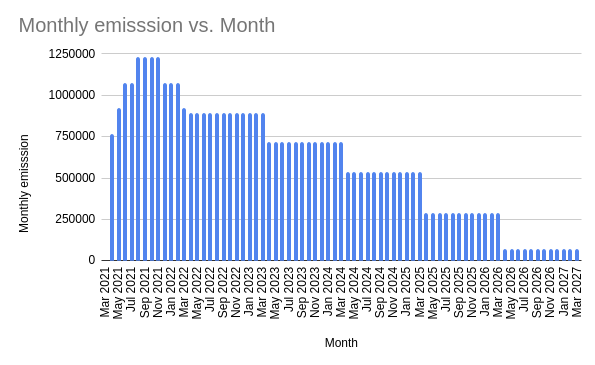
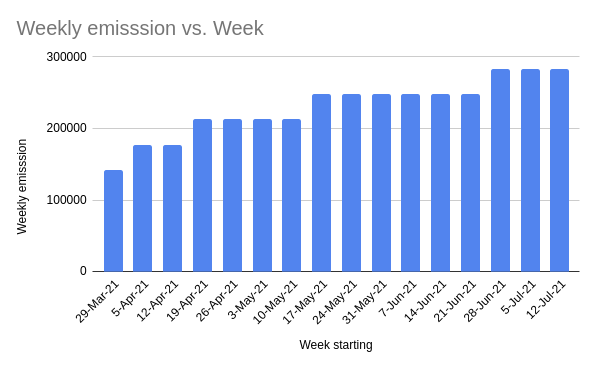
Update MCCP-4 figures

diff --git a/MCCP/mccp-4.md b/MCCP/mccp-4.md
@@ -1,7 +1,7 @@
 ---
 mccp: 4
 title: Optimise MTA emission to maximise circular effects
-status: WIP
+status: Proposed
 author: Alex Scott <@alsco77>, Onur Solmaz <@osolmaz>
 discussions-to: https://forum.mstable.org/
 created: 2021-03-16
@@ -27,17 +27,15 @@ The MCCP proposes that mStable:
 
 **b)** change the rewards contracts so that X% of MTA is unlocked immediately and Y% is vested over Z months (like the current imUSD vault), with a boost for being an MTA staker, thus incentivising LPs over a longer time period
 
-**c)** stick to the outlined emission schedule and ruleset defined here in order to calculate weekly pool distributions
-
-This MCCP interacts positively with [MIP-8](../MIPS/mip-8) and has the power to set the tokenomics on a different course: increasing mStable TVL, increasing fees to mAsset SAVE, increasing revenue to buy & make, reducing sell pressure for MTA and causing people to be MTA bulls due to the lockup and the rewards gained from being a staker.
-
-![curve](/assets/MCCP-4/curve.png)
+**c)** stick to the outlined emission schedule (over the next 16 weeks) and ruleset defined here in order to calculate weekly pool distributions
 
 ## Motivation
 
 <!--The motivation is critical for MCCPs that want to update variables within mStable. It should clearly explain why the existing variable is not incentive aligned. MCCP submissions without sufficient motivation may be rejected outright.-->
 
 The current incentives structure is inefficient and does not promote long term project alignment. LP's are rewarded for providing mAsset liquidity on to third party platforms, which, while providing some utility for mAssets, does not induce circular effects in mStable, and benefits the third parties moreso. In addition, LP's are only incentivised over a very short time period as the rewards unlock immediately, thus incentivising 'flash' liquidity provision and short term outlook on MTA. Thirdly, the calculation of quantities and determination of which sources should receive MTA emission is inefficient and could be optimised with a ruleset.
+
+This MCCP interacts positively with [MIP-8](../MIPS/mip-8) and has the power to set the tokenomics on a different course: increasing mStable TVL, increasing fees to mAsset SAVE, increasing revenue to buy & make, reducing sell pressure for MTA and causing people to be MTA bulls due to the lockup and the rewards gained from being a staker.
 
 Goals of MCCP-4:
 
@@ -55,52 +53,101 @@ It is worth reflecting upon emissions from comparative projects - see fig below 
 
 ## Specification
 
-### Top line emission
+### 16 week emission
 
-There are ~43m MTA remaining in the rewards pool for distribution. The emission curve proposed here would see this being emitted over 6 years, finishing in April 2027. It is assumed that MTA's value would increase over time as reward units drop. It is proposed that there be an alternative source following completion, for example a tail emission.
+There are ~43m MTA remaining in the rewards pool for distribution. The idea is that this emission would be front loaded and last for ~5-6 years, finishing in April 2027. It is assumed that MTA's value would increase over time as reward units drop. The monthly emission would ramp up over 3 months, from the current emission up to the peak monthly emission of 1.228m MTA per month. It would then ramp down until finishing in 2027.
 
-The monthly emission would ramp up over 3 months, from the current emission up to the peak monthly emission of 1.228m MTA per month. It would then ramp down until finishing in 2027.
+Proposal: Put this emission into effect for the following 16 weeks, in line with the top line emission schedule, to stimulate growth of mAssets and Feeder Pools, as shown below:
 
 ![bars](/assets/MCCP-4/bars.png)
 
+_This equates to an average yearly emission of (52/16)\*3685714 = 12m_
+
 ### Ruleset for pool distribution
 
-The ruleset below outlines the method by which pools will be chosen and which incentives they will receive.
+We define a simple heuristic which will be used to allocate emissions to feeder pools. The allocations for each imAsset vaults and feeder pools are derived from a total MTA emission amount. We denote the rewards received by the imAsset vaults and related feeder pools with `total_emission`. A fixed percentage of `total_emission` denoted by `feeder_emission_pct` goes to the feeder pools, and the rest is rewarded to the imAsset vaults.
 
-The following pools are proposed to be eligible for receiving rewards, in addition to MTA staking:
+```python
+feeder_emission = total_emission * feeder_emission_pct
+vault_emission = total_emission * (1 - feeder_emission_pct)
+```
 
-- imAsset vaults
-- Feeder Pools
+The emission internally between pools are distributed according to their performance in the previous week. However, before we look into performance, a fixed percentage `base_emission_pct` of emission to feeder pools is distributed equally to the mAsset's feeder pools. In other words, each feeder pools receive a base reward of
 
-The amount for each pool will be calculated as follows:
+```python
+feeder_base_emission = feeder_emission * base_feeder_emission_pct / n # MTA
+vault_base_emission = vault_emission * base_vault_emission_pct / m # MTA
+```
 
-- 30% of the weekly emission will be distributed evenly across all whitelisted pools
-- 70% will be distributed based on the optimisation formula described in Appendix 1 below
+where `n` is the number of feeder pools and `m` is number of mAsset vaults.
 
-Example week 1 numbers, based on emission above of 767,857 MTA per month (177334 per week).
-Assuming 2 imAsset vaults, 4 fPools, \$2.3 MTA price, 20% Daily LUR on each pool and ~40k going to MTA sources.
+On top of base rewards, each pool receives bonus rewards based on their performance from the previous week. We derive a simple performance metric from the volume and liquidity of the pool, according to
 
-<!-- TODO: Put accurate numbers in based on formula: maybe need to assume pool sizes too -->
-<!-- TODO: Example addition of new mAsset & fPool -->
+```python
+# For each feeder pool i
+bonus_feeder_factor[i] = volume[i] / liquidity[i]**(1/4)
+bonus_vault_factor[i] = volume[i] / liquidity[i]**(1/4)
+```
 
-| Pool allocations   | Current | Proposed (Week 1) |
-| ------------------ | ------- | ----------------- |
-| imBTC Vault        | 0       | 22889             |
-| mBTC/ETH Sushiswap | 15000   | 0                 |
-| imUSD Vault        | 12000   | 22889             |
-| mUSD Curve         | 13750   | 0                 |
-| mUSD/WETH Balancer | 23750   | 0                 |
-| fPool 1            | 0       | 22889             |
-| fPool 2            | 0       | 22889             |
-| fPool 3            | 0       | 22889             |
-| fPool 4            | 0       | 22889             |
-| **TOT mAssets**    | 64500   | 137334            |
-| MTA/WETH Uniswap   | 28750   | ---               |
-| Staking            | 40000   | ---               |
-| **TOT MTA**        | 68750   | 40000             |
-| **TOT**            | 133250  | 177334            |
+where `volume` is the value of the sum of all trades that were executed by the pool in the past week, and `liquidity` is the value of the time weighted average of total liquidity in the feeder pool in the past week.
 
-_Projected TVL: >164m giving each pool >=10% APY from only MTA rewards_
+Pools receive rest of the rewards proportional to their bonus factors:
+
+```python
+bonus_feeder_emission[i] = feeder_emission * (1 - base_feeder_emission_pct) \
+        * bonus_feeder_factor[i] / sum(bonus_feeder_factor)
+bonus_vault_emission[i] = vault_emission * (1 - base_vault_emission_pct) \
+        * bonus_vault_factor[i] / sum(bonus_vault_factor)
+```
+
+Finally, the total emission a feeder pool receives is computed as the sum of the base emission and bonus emission
+
+```python
+total_feeder_emission[i] = feeder_base_emission + bonus_feeder_emission[i]
+total_vault_emission[i] = vault_base_emission + bonus_vault_emission[i]
+```
+
+It is proposed that:
+
+- `feeder_emission_pct` = 0.8
+- `base_feeder_emission_pct` = 0.2
+- `base_vault_emission_pct` = 0.5
+
+Example week 1 numbers, based on emission above of 141758 per week.
+Assuming 2 imAsset vaults, 4 fPools, 20% Daily LUR on each pool and ~40k going to MTA sources.
+
+Example week 14 numbers, based on emission above of 283516 per week.
+Assuming 3 imAsset vaults, 8 fPools, 20% Daily LUR on each pool and ~40k going to MTA sources.
+
+| Pool allocations   | Current | Proposed (Week 1) | Proposed (Week 14) |
+| ------------------ | ------- | ----------------- | ------------------ |
+| mBTC/ETH Sushiswap | 15000   | 0                 | 0                  |
+| mUSD/WETH Balancer | 23750   | 0                 | 0                  |
+| mUSD Curve         | 13750   | 0                 | 0                  |
+| imBTC Vault        | 0       | 10175.8           | 16234.4            |
+| imUSD Vault        | 12000   | 10175.8           | 16234.4            |
+| imXXX Vault        | 12000   | 0                 | 16234.4            |
+| fPool 1            | 0       | 20351.6           | 24351.6            |
+| fPool 2            | 0       | 20351.6           | 24351.6            |
+| fPool 3            | 0       | 20351.6           | 24351.6            |
+| fPool 4            | 0       | 20351.6           | 24351.6            |
+| fPool 5            | 0       | 0                 | 24351.6            |
+| fPool 6            | 0       | 0                 | 24351.6            |
+| fPool 7            | 0       | 0                 | 24351.6            |
+| fPool 8            | 0       | 0                 | 24351.6            |
+| **TOT mAssets**    | 64500   | 101758            | 243516             |
+| MTA/WETH Uniswap   | 28750   | ---               | ---                |
+| Staking            | 40000   | ---               | ---                |
+| **TOT MTA**        | 68750   | 40000             | 40000              |
+| **TOT**            | 133250  | 141758            | 283516             |
+
+Assuming \$2.3 MTA:  
+_Projected TVL Week 1: >121m giving each pool >=10% APY from only MTA rewards_
+_Projected TVL Week 14: >291m giving each pool >=10% APY from only MTA rewards_
+
+Assuming \$5 MTA:  
+_Projected TVL Week 1: >263m giving each pool >=10% APY from only MTA rewards_
+_Projected TVL Week 14: >632m giving each pool >=10% APY from only MTA rewards_
 
 ### Rewards contract specification
 
@@ -123,217 +170,6 @@ Variables:
 ### Buy & Make + Governance Fees
 
 As pools mature, it is proposed that the % of system revenue streamed to Buy and Make be increased via a following MCCP. Additionally, the governance fee in each Feeder Pool should be activated with the funds being directed towards the active Buy & Make pool.
-
-## Appendix 1: Emission Ruleset
-
-We want to have a mathematical way of reasoning when we set emissions to certain parts of the protocol. To this end, we set forth to create a comprehensive model with a level of detail sufficient to capture the token economics and market dynamics of each pool. The overarching purpose of the model is to maximize the TVL of the whole protocol by finding the optimal emission rates.
-
-As mStable is currently in the process of rapid restructuring and launching new pools, any comprehensive model we provide would risk being outdated short thereafter. Instead, we chose to use this MCCP to provide a simplified model as an example of the overall approach, which we intend to take in the longer term. We intend for such models to provide useful information, even after the governance of emission rates gets automated.
-
-To this end, we consider \\(n\\) undifferentiated liquidity pools whose asset prices are stable in the long term, e.g. stablecoins.
-
-**Assumptions**
-
-We assume that liquidity providers are drawn to pools with high annual percentage yield (APY), which is defined as in the following relation:
-
-```
-         yearly return on investment in USD
-APY = ----------------------------------------
-       initial value of the investment in USD
-```
-
-This value is computed from the combination of trading fees and liquidity mining rewards in each pool. Here, we assume that there is an equilibrium APY for each liquidity pool, tied to the corresponding market, below which the pool stops being attractive to liquidity providers. With this assumption, we imply that the APY does not fall below this minimum value.
-
-We also assume that liquidity pool volume
-
-- scales down linearly, when the pool is shrinking below current supply,
-- and stays constant, when the pool is growing above current supply.
-
-![supply1](/assets/MCCP-4/volume_supply1.svg)
-
-This is a conservative approach to estimating the demand in the market. It assumes that at a given point, the market is already saturated for a given liquidity pool, and increasing the liquidity will not necessarily increase volume. However, when the volume does increase at a future date, we take it into account by updating the values and rerunning the model.
-
-However, if the demand curve for a given asset pair were already known, we could set a target volume and use the bonding curve to compute the target size of the pool. Then we could use those values in the model, instead of current volume and supply.
-
-![supply2](/assets/MCCP-4/volume_supply2.svg)
-
-Our variables for the optimization problem are:
-
-- \\(e_i\\): weekly emission to pool \\(i\\)
-- \\(s_i\\): LP token supply (size) of pool \\(i\\)
-- \\(v_i\\): total volume of pool \\(i\\)
-
-The following are external parameters for the problem:
-
-- \\(V_i\\): current weekly volume demanded from pool \\(i\\)
-- \\(S_i\\): current LP token supply (size) of pool \\(i\\)
-- \\(A_i\\): minimum APY for pool \\(i\\) (i.e. the equilibrium APY which the pool has at maximum size)
-- \\(P\\): price of the governance token
-- \\(P_i\\): price of the LP token of pool \\(i\\) (1 in the case of USD based pools)
-- \\(e\_\max\\): maximum total weekly emission
-- \\(F\\): swap fee percentage, e.g. 0.0004
-
-**Objective function**
-
-We are trying to maximize the TVL, which is simply the sum of the values of the LP tokens of all pools:
-
-\\[
-\text{maximize }
-\sum_i P_is_i
-\\]
-
-**Constraints**
-
-**Constraint 1:** Total emission is less than or equal to maximum allowed emission.
-
-\\[
-\sum_i e_i \leq e_\max
-\\]
-
-**Constraint 2:** Pool APY should be greater than the designated minimum. The smaller the APY, the bigger the size of the pool.
-
-\\[
-52\left(\frac{FP_iv_i + Pe_i}{P_is_i}\right)
-\geq A_i
-\quad \text{for each } i
-\\]
-
-**Constraint 3:** Volume cannot be greater than current volume for each pool. This comes from the assumption we introduced above.
-
-\\[
-v_i \leq V_i
-\quad \text{for each } i
-\\]
-
-**Constraint 4:** Volume scales down linearly when a pool shrinks below its current size.
-
-\\[
-v_i \leq \frac{V_i}{S_i} s_i
-\quad \text{for each } i
-\\]
-
-Constraints 3 and 4 together create an envelope which enforce the assumption about volume's relationship with supply.
-
-**Implementation**
-
-This is a standard [linear optimization](https://en.wikipedia.org/wiki/Linear_programming) problem and we use a common solver from the SciPy package for the implementation. We assume that all LP tokens have the price 1, that is, \\(P_i =1\\) for all \\(i\\).
-
-```python
-import numpy as np
-from scipy.optimize import linprog
-
-# Governance token price
-P = 3.00
-
-# Minimum APY
-Ai = [0.10, 0.10, 0.10, 0.10, 0.10, 0.10]
-
-# Current pool sizes
-Si = [28e6, 10e6, 3e6, 3e6, 3e6, 3e6]
-
-# Current weekly demanded volume
-Vi = [15e6, 1e6, 0.5e6, 0.5e6, 0.5e6, 0.5e6]
-
-# Maximum total emission
-e_max = 150_000
-
-# Swap fee percentage
-F = 0.0004
-
-# Solution
-n = len(Ai) # Number of feeder pools
-assert len(Ai) == len(Vi)
-
-# Variables are:
-# [s_1, ..., s_n, e_1, ..., e_n, v_1, ..., v_n]
-c_vec = [1. for i in range(n)] \
-    + [0. for i in range(2*n)]
-
-c_vec = -1 * np.array(c_vec)
-
-A_ub = []
-b_ub = []
-
-A_eq = []
-b_eq = []
-
-bounds = [(0, None) for i in range(3 * n)]
-
-# Constraint: e + sum e_i <= e_max
-lhs = [0. for i in range(n)] + [1. for i in range(n)] + [0. for i in range(n)]
-rhs = e_max
-A_ub.append(lhs)
-b_ub.append(rhs)
-
-# Constraints: (Ai)*Si - (52*P)*ei <= 52*F*Vi
-for i in range(n):
-    lhs = [0. for i in range(3*n)]
-    lhs[i] = Ai[i]
-    lhs[i+n] = -52 * P
-    lhs[i+2*n] = -52 * F
-    rhs = 0 #52*Vi[i]*F
-    A_ub.append(lhs)
-    b_ub.append(rhs)
-
-# Constraint: v_i <= V_i
-for i in range(n):
-    lhs = [0. for i in range(3*n)]
-    lhs[i+2*n] = 1
-    rhs = Vi[i]
-    A_ub.append(lhs)
-    b_ub.append(rhs)
-
-# Constraint: v_i <= s_i * (V_i / S_i)
-for i in range(n):
-    lhs = [0. for i in range(3*n)]
-    lhs[i] = - Vi[i] / Si[i]
-    lhs[i+2*n] = 1
-    rhs = 0
-    A_ub.append(lhs)
-    b_ub.append(rhs)
-
-A_ub = np.array(A_ub)
-b_ub = np.array([b_ub])
-
-sln = linprog(c_vec, A_ub=A_ub, b_ub=b_ub, bounds=bounds)
-print(sln)
-
-si = sln.x[:n]
-ei = sln.x[n:2*n]
-vi = sln.x[2*n:]
-
-apy_i = [52*(F*v_+P*e_)/s_ for v_,e_,s_ in zip(vi, ei, si)]
-
-if sln.status != 0:
-    raise Exception("Solution was not successful")
-
-print()
-print("Resulting TVL: %.2fm"%(sum(si)/1e6))
-for i in range(n):
-    print("Pool %d emission: %.2f MTA - size: %.2fm - vol: %.2fm - APY: %.2f%%"%(
-        i,
-        ei[i],
-        si[i]/1e6,
-        vi[i]/1e6,
-        100 * apy_i[i],
-    ))
-```
-
-In this example, we have 6 liquidity pools with minimum APY of 10% each. Current pool sizes are 28m, 10m, 3m, 3m, 3m, 3m and current volumes are 15m, 1m, 0.5, 0.5, 0.5, 0.5 respectively. We don't need to input information regarding previous emissions, because that is considered implicitly with current volume `Vi` and current supply `Si`.
-
-Governance token price is \$3, maximum emission is 150,000 tokens and swap fee is 4 bps in all pools. The result of optimization is as follows:
-
-```
-Resulting TVL: 237.74m
-Pool 0 emission: 21110.62 MTA - size: 36.05m - vol: 15.00m - APY: 10.00%
-Pool 1 emission: 54329.26 MTA - size: 84.96m - vol: 1.00m - APY: 10.00%
-Pool 2 emission: 18640.03 MTA - size: 29.18m - vol: 0.50m - APY: 10.00%
-Pool 3 emission: 18640.03 MTA - size: 29.18m - vol: 0.50m - APY: 10.00%
-Pool 4 emission: 18640.03 MTA - size: 29.18m - vol: 0.50m - APY: 10.00%
-Pool 5 emission: 18640.03 MTA - size: 29.18m - vol: 0.50m - APY: 10.00%
-```
-
-The maximum TVL obtained with the current emission rates is around 237m.
 
 ## Copyright
 

diff --git a/MIPS/mip-9.md b/MIPS/mip-9.md
@@ -1,7 +1,7 @@
 ---
 mip: 9
 title: Feeder Pools
-status: WIP
+status: Proposed
 author: Alex Scott (@alsco77), Onur Solmaz <onur@mstable.org>
 discussions-to: https://forum.mstable.org/
 created: 2021-03-15
